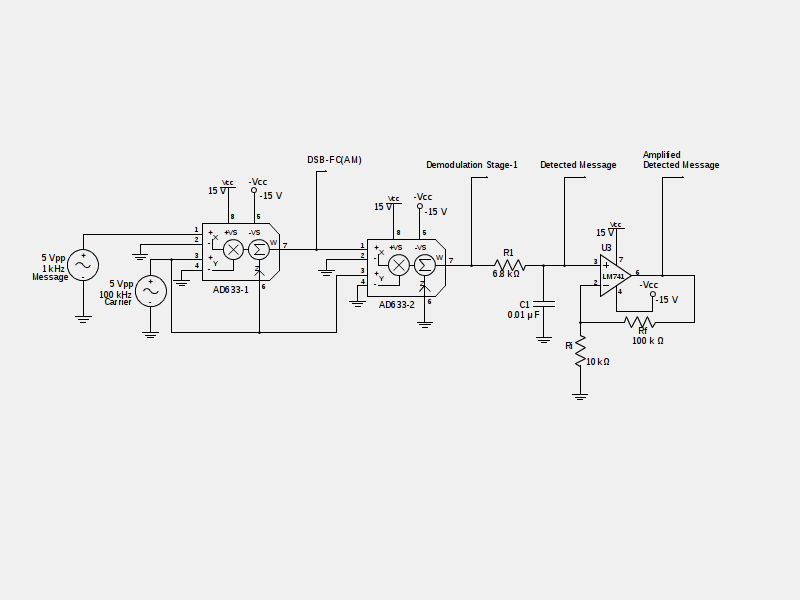
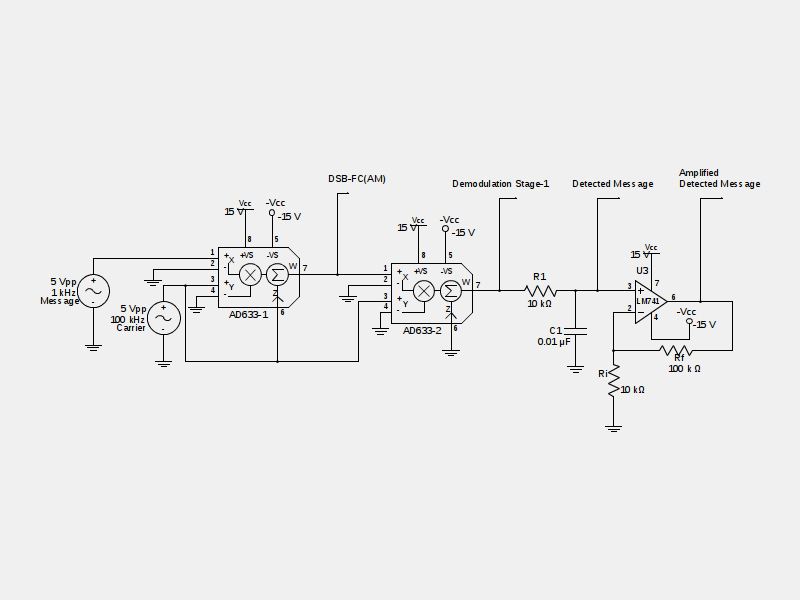
Misc. edits in AM circuit using 633
Content updated, filter design changed. circuit diagram modified

diff --git a/chapters/AM633.tex b/chapters/AM633.tex
@@ -3,7 +3,7 @@
 \section*{Aim}
 To design and implement AM generation and demodulation using multiplier IC AD633.
 \section*{Theory}
-DSB-SC using AD633 has already been discussed in chapter \ref{chapdsbsc}. DSB-SC is same as AM devoid of the carrier. Inorder to obtain the pure AM waveform which is \emph{double side band with carrier}, add the carrier signal to the DSB-SC signal.
+DSB-SC using AD633 has already been discussed in chapter \ref{chapdsbsc}. DSB-SC is same as AM devoid of the carrier. Inorder to obtain the complete AM waveform which is \emph{double side band with carrier}, add the carrier signal to the DSB-SC signal. This can be done using the 633 multiplier IC. For more details on IC, refer \ref{AD633}.
 \begin{equation}
 W= \frac{X.Y}{10}+Z
 \end{equation}
@@ -43,7 +43,7 @@ W=& \frac{{E_c}^2}{20}+\frac{E_m.{E_c}^2}{200}sin(2\pi f_mt) \\
 Thus the signal consists of various frequencies of which, the smallest is the message frequency. It can be extracted by filtering using a low pass filter. Since the amplitude of the message frequency is very small, It may be amplified using a simple non-inverting amplifier using an opamp.
 
 \section*{Design}
-Provide the biasing voltage of +15 V to pin 8 of the IC and -15 V to pin 5 of the IC.\\
+Provide the supply voltage of +15 V to pin 8 of the IC and -15 V to pin 5 of the IC.\\
 
 \noindent To the \textbf{Y} and \textbf{Z} inputs of the IC, feed the carrier sinusoid of amplitude $E_c=2.5\ V$ and frequency $f_c= 100\ kHz$.\\
 To the \textbf{X} input of the IC, feed the message sinusoid of amplitude $E_m=2.5\ V$ and frequency $f_m= 1\ kHz$.\\
@@ -77,13 +77,13 @@ W=& \frac{6.25}{20} +\frac{15.625}{200}sin(2\pi 1kt)\\
 
 \noindent This waveform is shown in Figure \ref{AM633plot2}, which is the stage -1 in demodulation. The next step is to obtain the message signal. This is done by lowpass filtering the above signal at a cut-off frequency of 1.5 kHz.
 
-To design an RC lowpass filter of cut-off frequency 1kHz,
+To design an RC lowpass filter of cut-off frequency 1.5 kHz,
 
 \begin{equation}
 f_c=\frac{1}{2\pi R_1C_1}=1.5kHz
 \end{equation}
 Choose $C_1=0.01\  \mu F$
-$\therefore  R_1 =7.5 \ k \Omega$
+$\therefore  R_1 =10 \ k \Omega$
 
 A non-inverting amplifier may be used to amplify this signal. Using a feedback resistor of $R_f= 100 \ k \Omega$ and an input resistance of $R_i=10\ k\Omega$ will result in a gain of $A_v=1+\frac{R_f}{R_i}=11$.
 \section*{Circuit Diagram}
